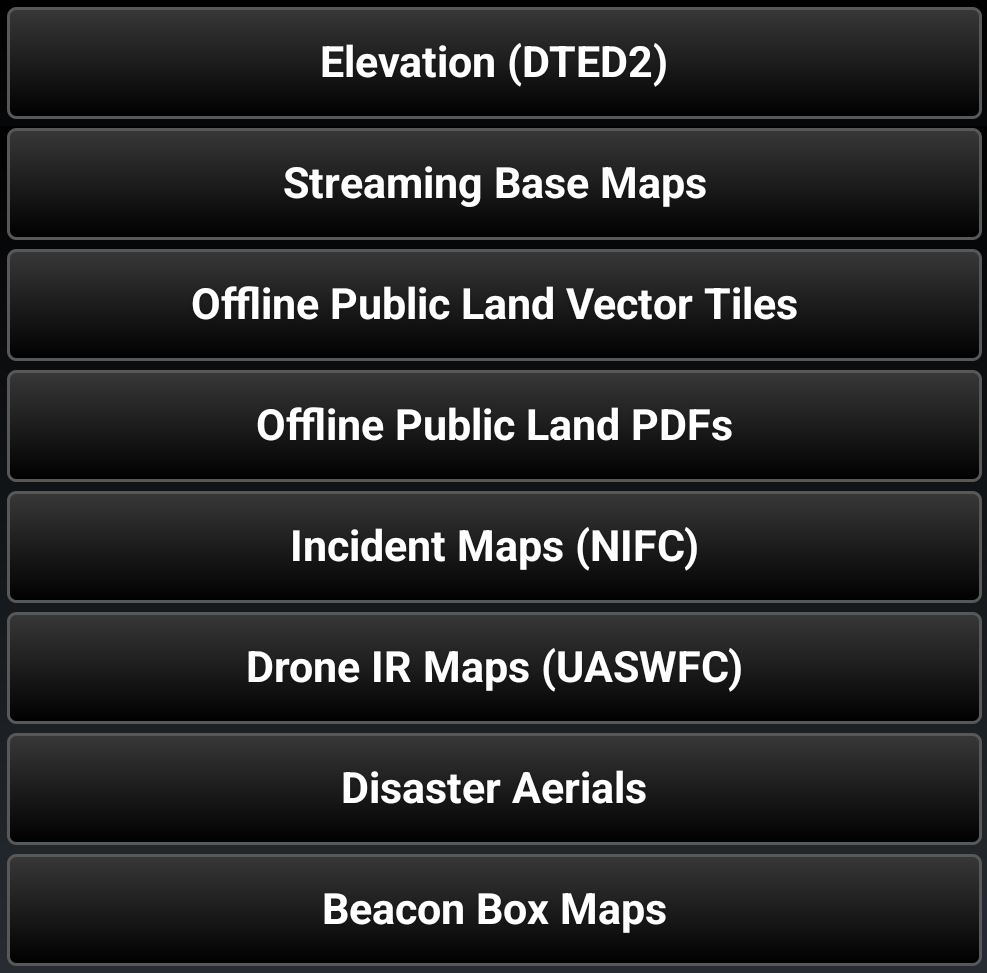
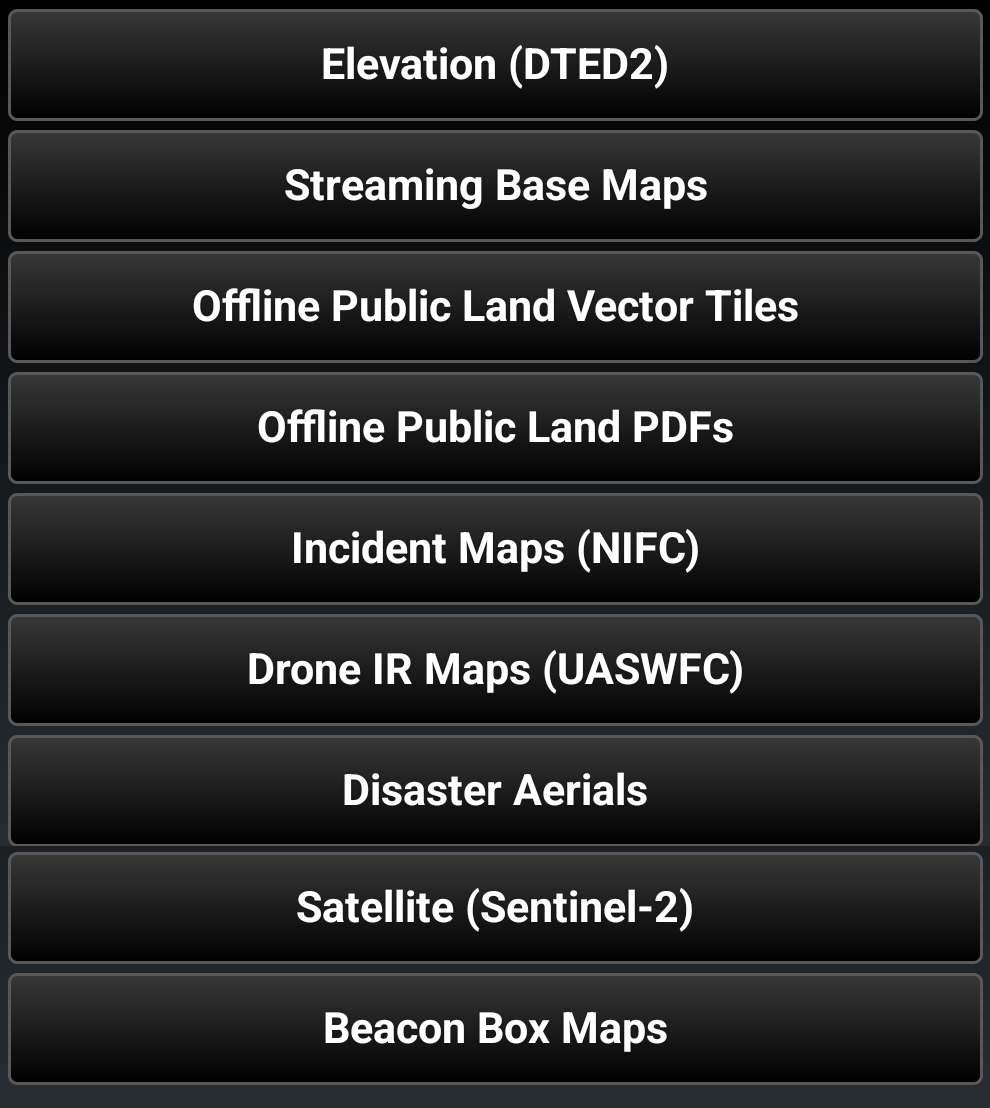
Map Depot 1.15: landing picture with Satellite, guide/manual/README mention it

diff --git a/docs/USER_GUIDE.md b/docs/USER_GUIDE.md
@@ -55,7 +55,7 @@ Load the plugin from ATAK's Plugins manager, then open it from the toolbar.
 
 ![Map Depot in the ATAK toolbar](screenshots/1_plugin_in_toolbar.png)
 
-The landing page offers eight kinds of data, each on its own page.
+The landing page offers nine kinds of data, each on its own page.
 
 ![The Map Depot landing page](screenshots/2_landing_page.png)
 
@@ -76,6 +76,8 @@ The landing page offers eight kinds of data, each on its own page.
 - **Disaster Aerials** — the imagery flown or collected after a hurricane,
   flood, fire or tornado by NOAA, the Civil Air Patrol and Maxar, one overlay
   per flight, drawn over whatever map you have.
+- **Satellite (Sentinel-2)** — recent satellite passes over the map center or
+  your position, in true color or as a fire view, streamed over the map.
 
 ---
 

diff --git a/README.md b/README.md
@@ -96,6 +96,11 @@ limit is 64 now and they are listed. The landing page picture in the guide
 and manual shows every section, and the manual prints no question marks
 where it had arrows.
 
+Version 1.15: Satellite (Sentinel-2), a new section listing recent satellite
+passes over the map center or your position, newest first, in true color or
+as a fire view that makes fresh burn and active fire stand out. Tap a pass to
+see its outline and go there; Add Online streams it over the map.
+
 Version 1.13: pictures from the signed build in the guide and manual
 (outlines, a flight with the roads overlay on top, the sectioned overlay
 list); the offline copy's digest check reshaped for the static scan; no
